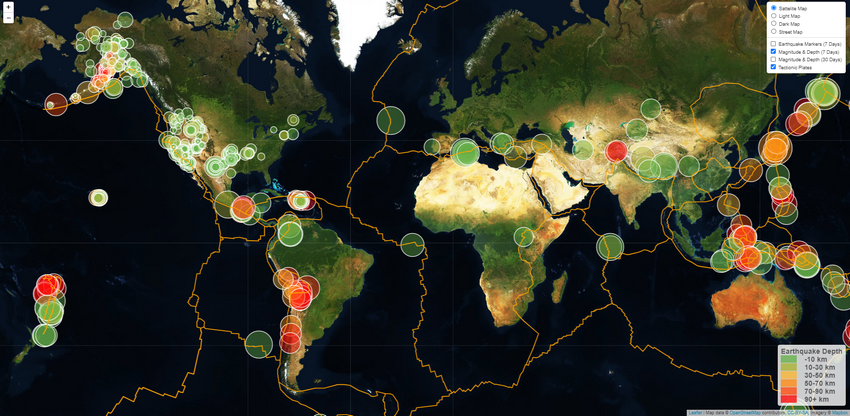
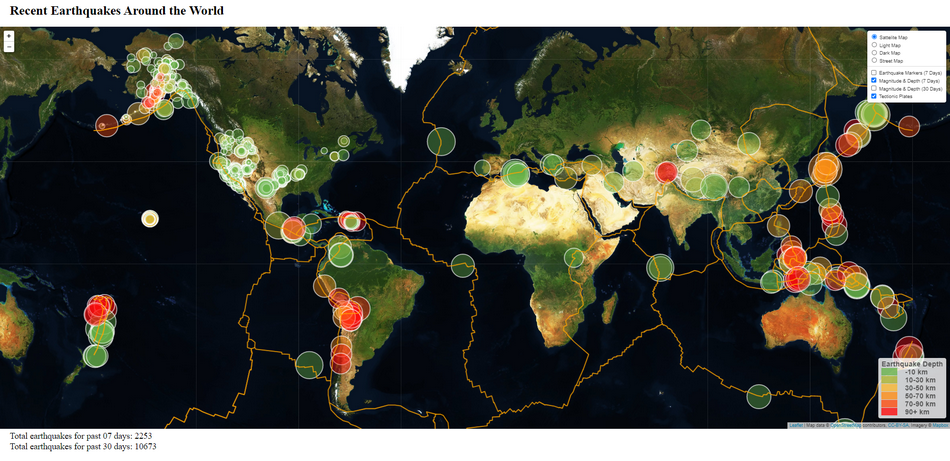
update
added css format to show text below and a count for total earthquakes

diff --git a/Leaflet-Step-2/static/js/logic.js b/Leaflet-Step-2/static/js/logic.js
@@ -65,7 +65,8 @@ function createMap(earthquakes, magnitude, magnitude30) {
         layers: [satellitenmap, magnitude, tectonicPlates]
     });
 
-    // Create a layer control, pass in the baseMaps and overlayMaps. Add the layer control to the map
+    // Create a layer control, pass in the baseMaps and overlayMaps. 
+    // Add the layer control to the map
     L.control.layers(baseMaps, overlayMaps, {
         collapsed: false
     }).addTo(map);
@@ -84,7 +85,8 @@ function createMap(earthquakes, magnitude, magnitude30) {
         div.innerHTML ='<div><b>Earthquake Depth</b></div';
       
         for(var i=0; i <grades.length; i++){
-            div.innerHTML +='<i style="background:'+chooseColor(grades[i])+ '">&nbsp;</i>&nbsp;&nbsp;'+labels[i]+'<br/>';
+            div.innerHTML +='<i style="background:'+chooseColor(grades[i])+ 
+            '">&nbsp;</i>&nbsp;&nbsp;'+labels[i]+'<br/>';
         }
     return div;
     }; legend.addTo(map);
@@ -141,7 +143,11 @@ function createMarkers(response) {
         /////// Earthquakes Layer ///////
         // For each latitude and longitude, create a marker and bind a popup with the data
         var earthquakeMark = L.marker(coordList.slice(0, 2).reverse())
-            .bindPopup("<h3>" + features.properties.place + "</h3><h3>Magnitude: " + features.properties.mag + "</h3><h3>Depth: "+ coordList.slice(2, 3) + "</h3>");
+            .bindPopup("<h3>" + features.properties.place + 
+                "</h3><h3>Magnitude: " + features.properties.mag + 
+                "</h3><h3>Depth: "+ coordList.slice(2, 3) + 
+                "</h3>");
+
         // Add earthquarkmark to preset list
         earthquakeMarkers.push(earthquakeMark);
 
@@ -155,7 +161,10 @@ function createMarkers(response) {
             weight: 1.5,
             radius: radiusHelper(features.properties.mag)
         })
-            .bindPopup("<h3>" + features.properties.place + "<h3><h3>Magnitude: " + features.properties.mag + "</h3><h3>Depth: "+ coordList.slice(2, 3) + "</h3>");
+            .bindPopup("<h3>" + features.properties.place + 
+                "<h3><h3>Magnitude: " + features.properties.mag + 
+                "</h3><h3>Depth: "+ coordList.slice(2, 3) + 
+                "</h3>");
         ;
        
         //  Add magnitude to list for map 
@@ -163,9 +172,12 @@ function createMarkers(response) {
 
     };
 
-    // Check total earthquakes for 7 day period
-    console.log(`Total earthquakes for past 7 days: ${quakeFeatures.length}`)
-    
+    // Display total earthquakes for 7 day period
+
+    var textArea1 = document.getElementById("count7day");
+    textArea1.append( `Total earthquakes for past 07 days: ${quakeFeatures.length}`);
+
+        
     //////////////////////////////
     function createMarkers30(response) {
 
@@ -207,10 +219,12 @@ function createMarkers(response) {
             //  Add magnitude to list for map 
             magnitude30.push(magnitudeList);
         };
-        
-        // Check total earthquakes for 30 day period
-        console.log(`Total earthquakes for past 30 days: ${quakeFeatures.length}`)
-           
+
+        // Display total earthquakes for 30 day period
+        var textArea1 = document.getElementById("count30day");
+        textArea1.append(`Total earthquakes for past 30 days: ${quakeFeatures.length}`);
+       
+                   
         // Create a layer group made from the bike markers array, pass it into the createMap function
         createMap(L.layerGroup(earthquakeMarkers), L.layerGroup(magnitude), L.layerGroup(magnitude30));
     }
@@ -238,3 +252,8 @@ d3.json(earthquake7url, createMarkers);
 //d3.json(earthquake30url, createMarkers);
 d3.json(tectonicUrl, createTectonicPlates);
 
+
+    // var textArea1 = document.getElementById("#count7day");
+    // var text = document.createTextNode();
+
+    // textArea1.appendChild(text);

diff --git a/Leaflet-Step-2/static/css/style.css b/Leaflet-Step-2/static/css/style.css
@@ -1,20 +1,40 @@
 body {
-    padding: 0;
-    margin: 0;
-  }
+  padding: 0;
+  margin: 0;
+}
   
-  #map-id,
-  body,
-  html {
-    height: 96%;
-    width: 100%;
-  }
-  
-  .leaflet-popup-content {
-    text-align: center;
-  }
+h1 {
+  text-align: left;
+  margin-left: 25px;
+}
 
-  
+#map-id {
+  height: 86%;
+  width: 100%;
+}
+
+#count7day {
+  font-size: 22px;
+  padding-top: 5px;
+  text-align: left;
+  margin-left: 25px;
+}
+
+#count30day {
+  font-size: 22px;
+  text-align: left;
+  margin-left: 25px;
+}
+
+body,
+html {
+  height: 100%;
+  width: 100%;
+}
+
+.leaflet-popup-content {
+  text-align: center;
+}
 
 .legend {
   padding: 6px 8px;
@@ -26,7 +46,6 @@ body {
   border-radius: 5px;
   box-shadow: 0 0 15px rgba(0, 0, 0, 0.2);
 }
-
 
 .legend i {
   width: 40px;
@@ -58,7 +77,4 @@ body {
 .legend .max {
   float: right;
 }
-
-h1 {
-  text-align: center;
-} */
+*/

diff --git a/Leaflet-Step-2/static/js/config.js b/Leaflet-Step-2/static/js/config.js
@@ -1,6 +1,4 @@
-const API_KEY = "Your API key here";
-
-
+const API_KEY = "Your API Key here";
 
 
 // // Import private info for API key
